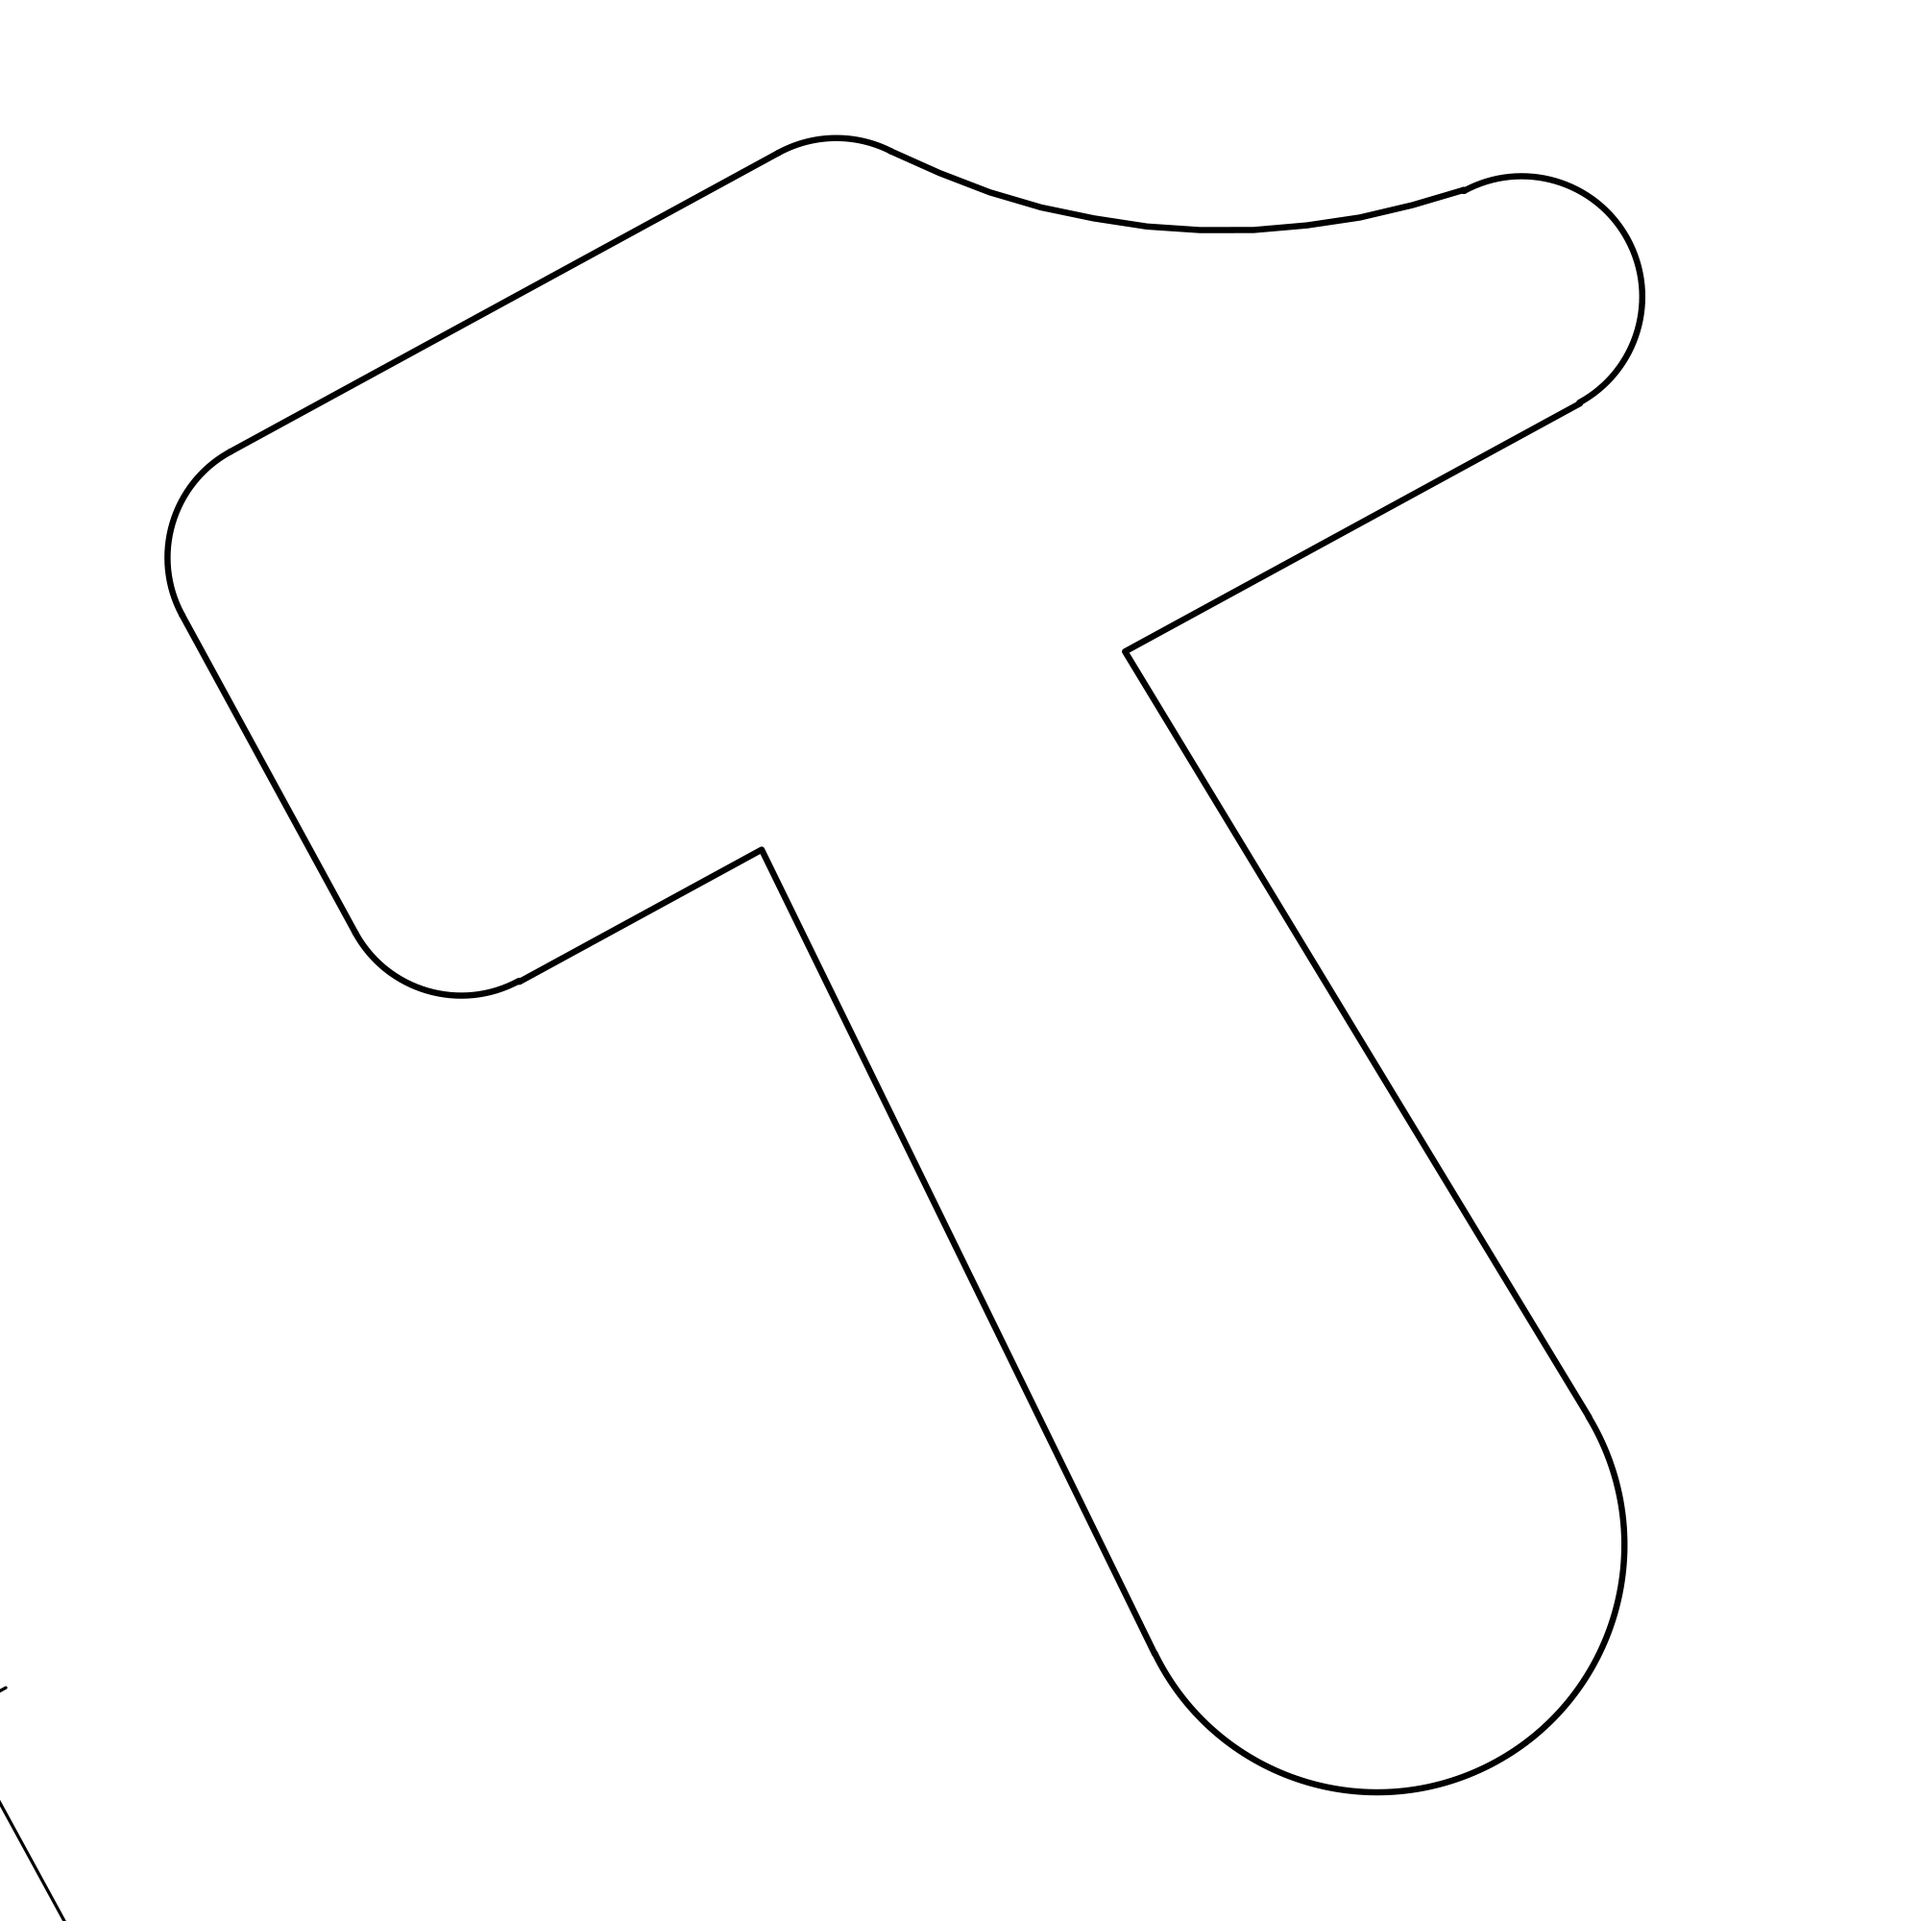
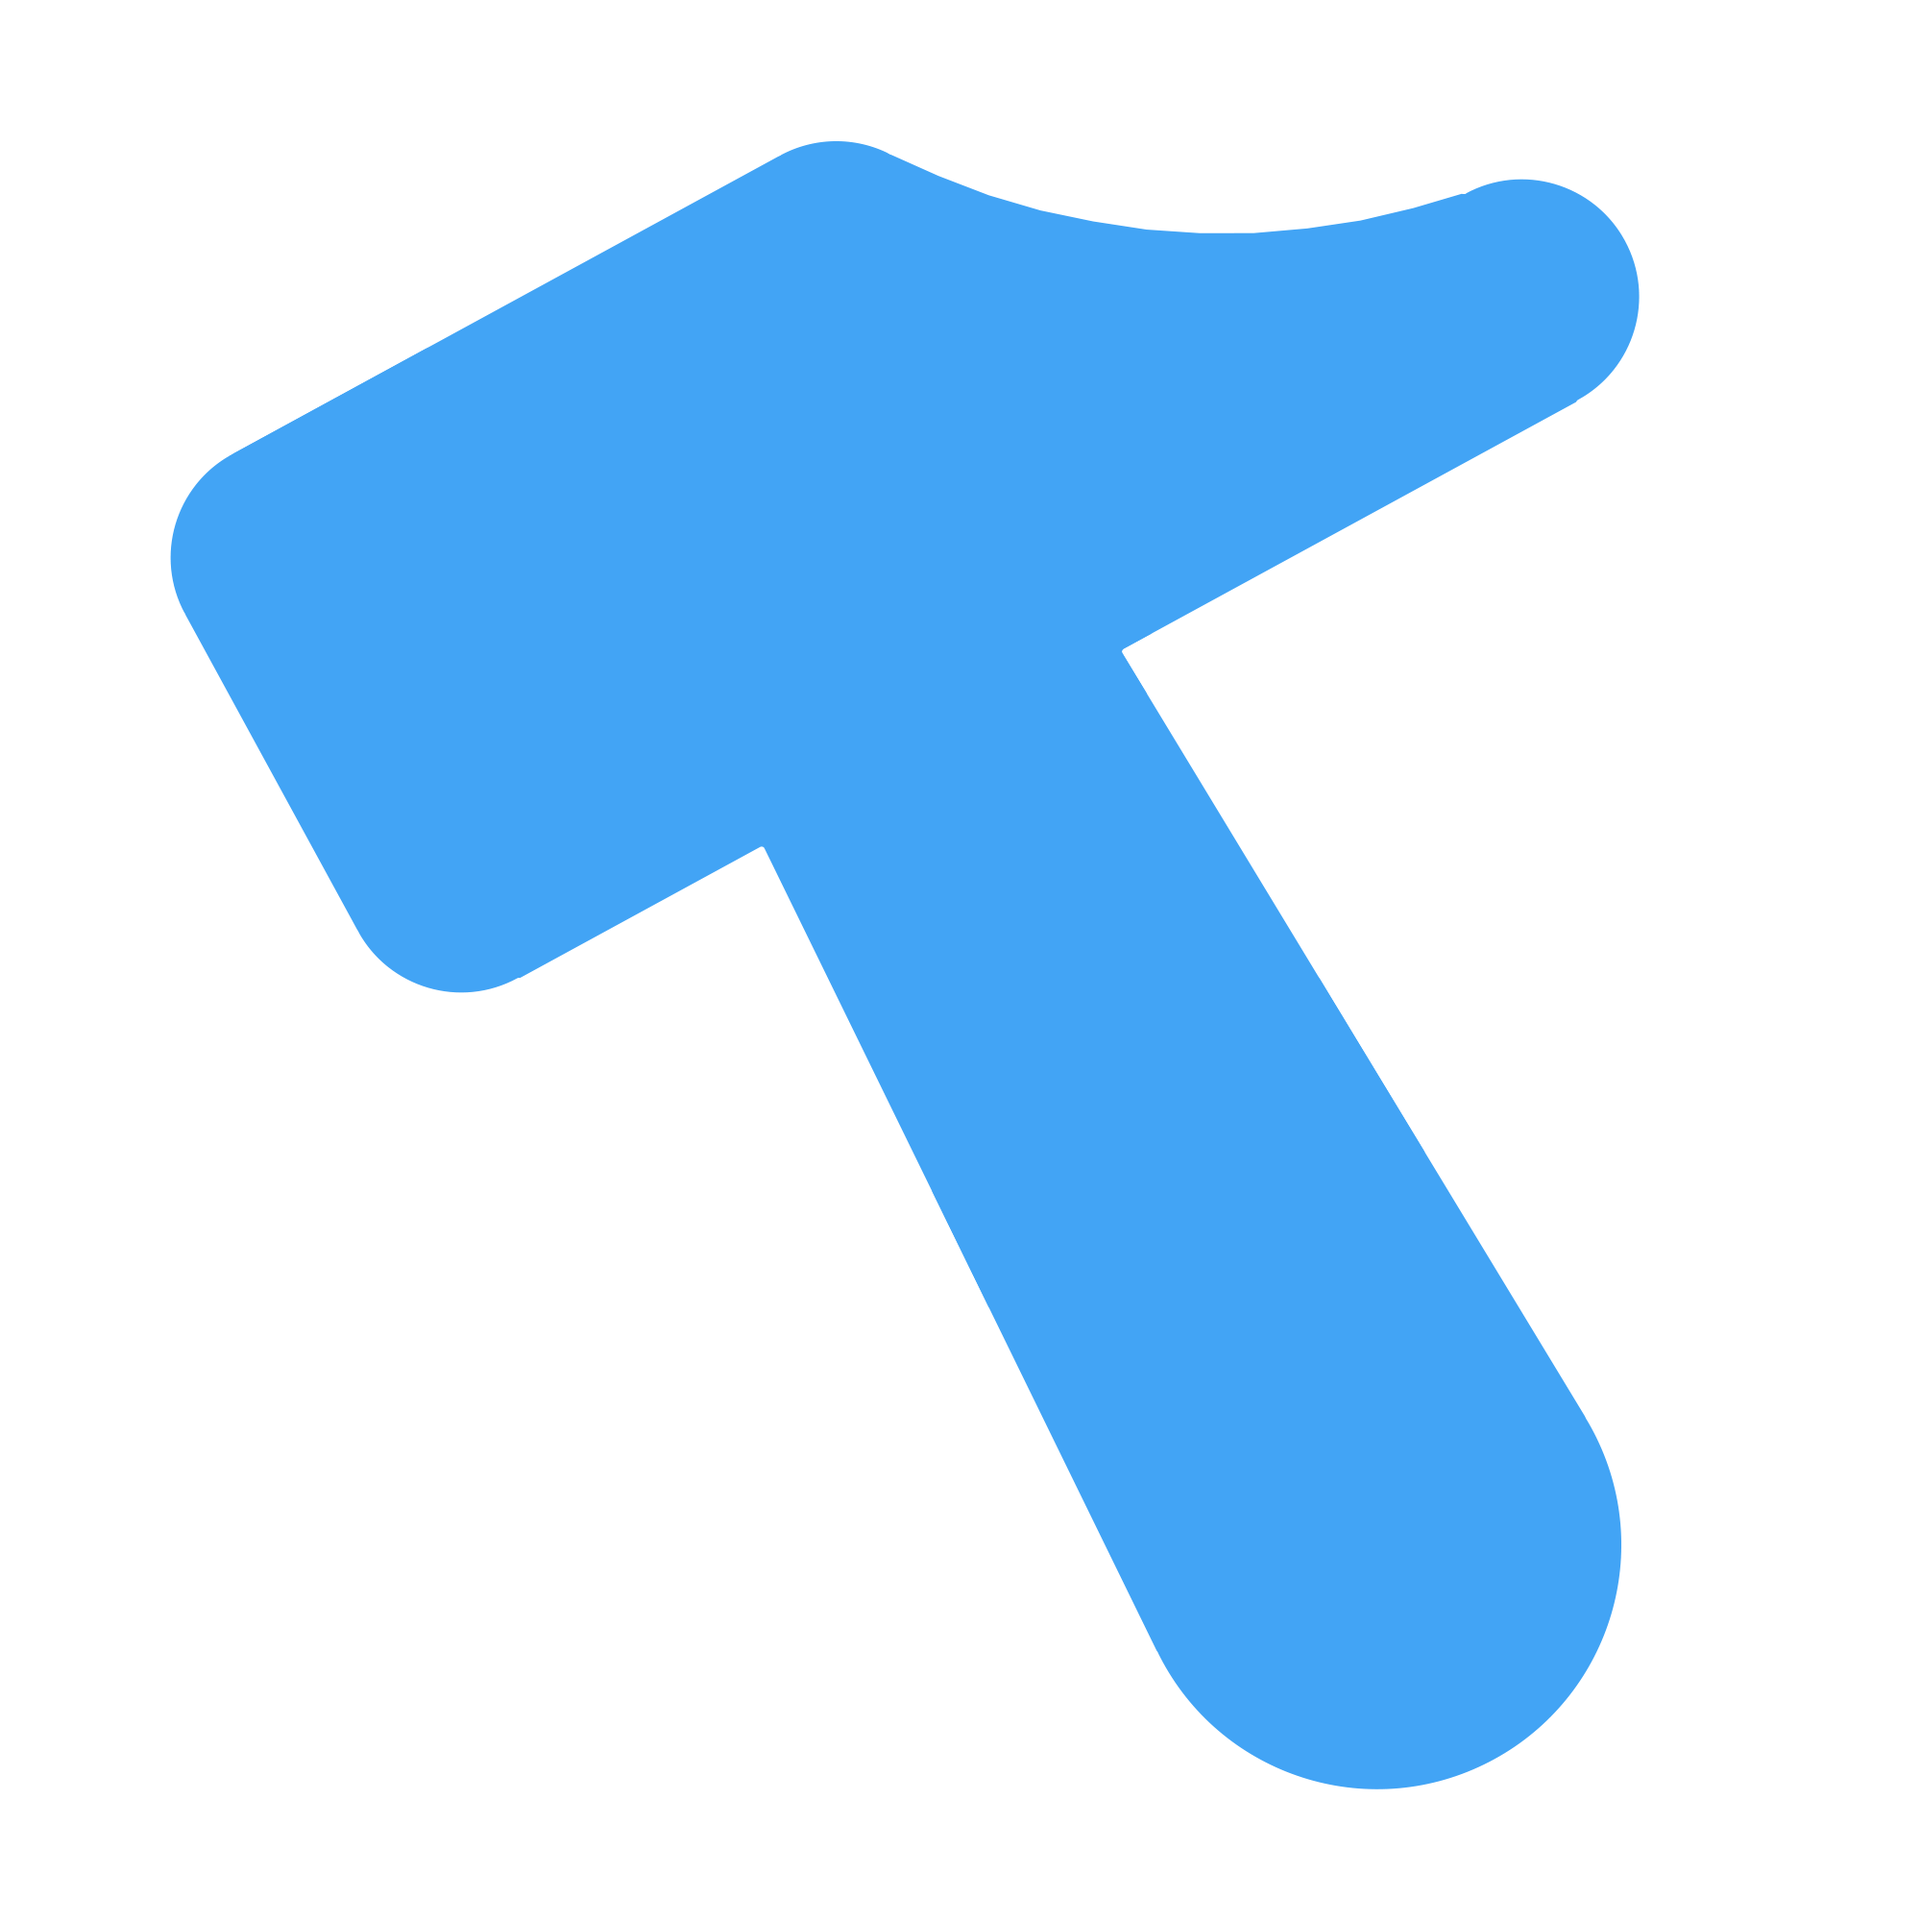
Cambios en la vista Home

diff --git a/www/source/app.routes.js b/www/source/app.routes.js
@@ -11,14 +11,14 @@ angular.module('lilotech', ['ionic', 'ngResource', 'LocalStorageModule'])
     $stateProvider
     .state('login', {
         url: '/login',
-        templateUrl: 'source/components/login/login-view.html',
+        templateUrl: 'source/components/login/loginView.html',
         controller : 'LoginController as login'
 
     })
 
     .state('home', {
         url: '/home',
-        templateUrl: 'source/components/home/home-view.html',
+        templateUrl: 'source/components/home/homeView.html',
         controller : 'HomeController as home'
 
     });

diff --git a/www/index.html b/www/index.html
@@ -26,8 +26,8 @@
     <script src="source/app.routes.js"></script>
     <script src="cordova.js"></script>
     
-    <script src="source/components/login/LoginController.js"></script>
-    <script src="source/components/home/HomeController.js"></script>
+    <script src="source/components/login/loginController.js"></script>
+    <script src="source/components/home/homeController.js"></script>
 
   </body>
 </html>

diff --git a/www/source/components/home/homeView.html b/www/source/components/home/homeView.html
@@ -1,0 +1,12 @@
+<ion-header-bar class="bar-light bar-header">
+	<img src="img/icono_app_Android.png" class="img_head_left button button-clear">
+	<h1 class="nav-bar title">{{home.title}}</h1>
+	<img src="img/martillo.png" class="img_head_right button button-clear">
+</ion-header-bar>
+
+<ion-content class="principal-background">
+	<ion-view  >
+		
+	</ion-view>
+</ion-content>
+

diff --git a/www/css/style.css b/www/css/style.css
@@ -208,7 +208,21 @@ input,a {
 }
 
 /* Home */
+.bar_header{
+    height: 70px !important;
+}
+
 .nav-bar{
     color:black;
     font-size: 30px !important;
+}
+
+.img_head_left{
+    height: 32px;
+    width: 35px;
+}
+
+.img_head_right{
+    height: 36px;
+    width: 36px;
 }

diff --git a/www/source/components/home/HomeController.js b/www/source/components/home/HomeController.js
@@ -11,6 +11,7 @@
 
 		function constructor(){
 			vm.title = "Hogar";
+			vm.icon_home = "img/logo.png"
 			console.log('Home');
 		}
 
